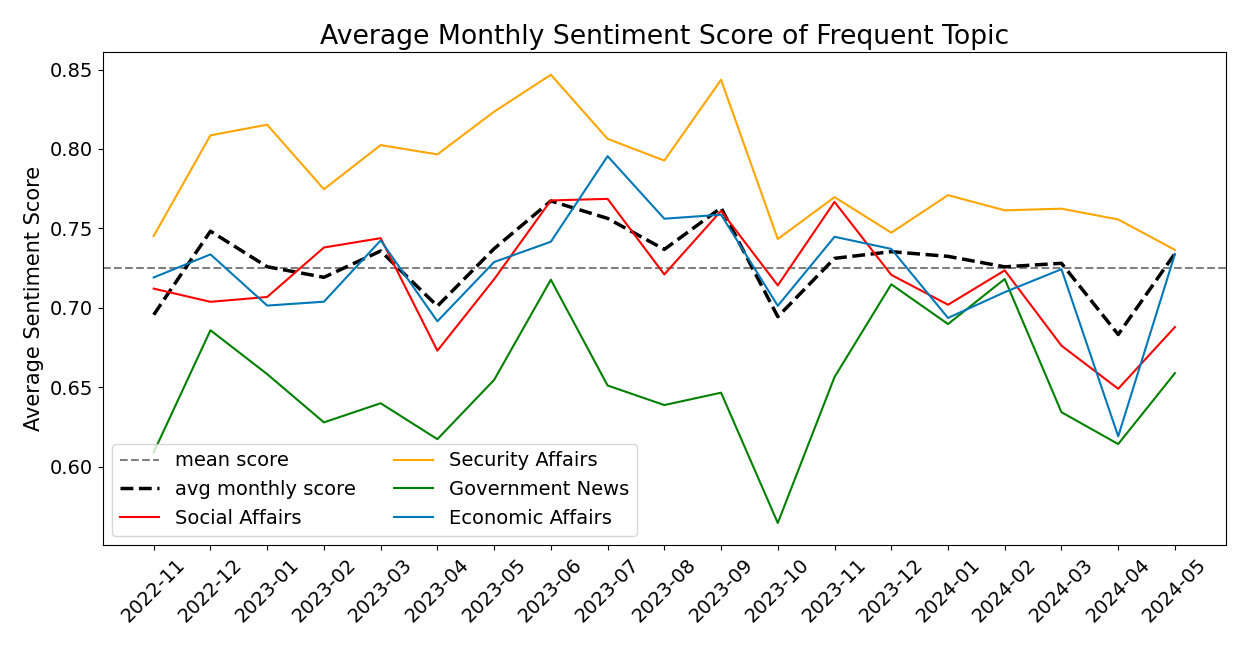
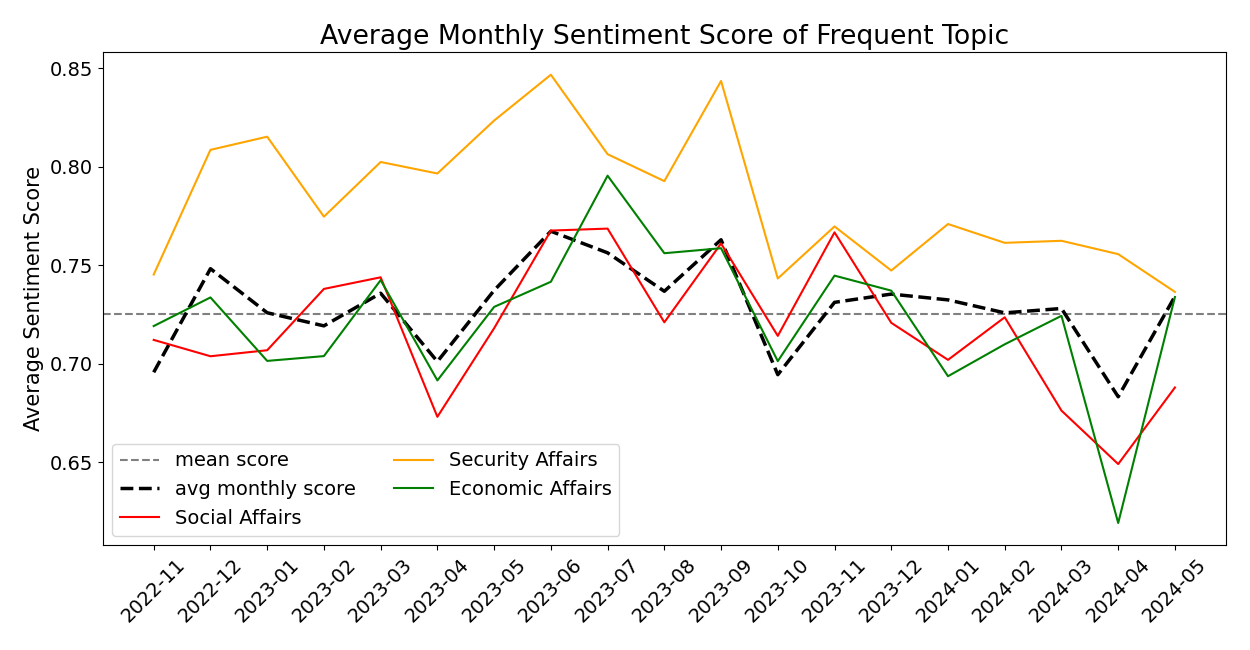
modify average month by freq topic

diff --git a/core/analyze_result.py b/core/analyze_result.py
@@ -139,7 +139,8 @@ class Analysis:
         """Plot the trend of the average monthly score by specific topics."""
         # Determine the specific topics to plot based on the specific type
         if specific_type == "frequent":
-            specific_topics = self.frequent_topics
+            specific_topics = list(self.frequent_topics).copy()
+            specific_topics.remove("Government News")
         elif specific_type == "positive":
             specific_topics = self.positive_topics
         elif specific_type == "negative":
